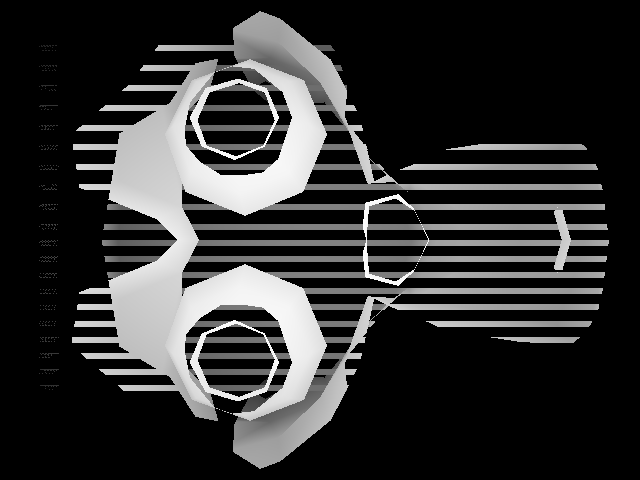
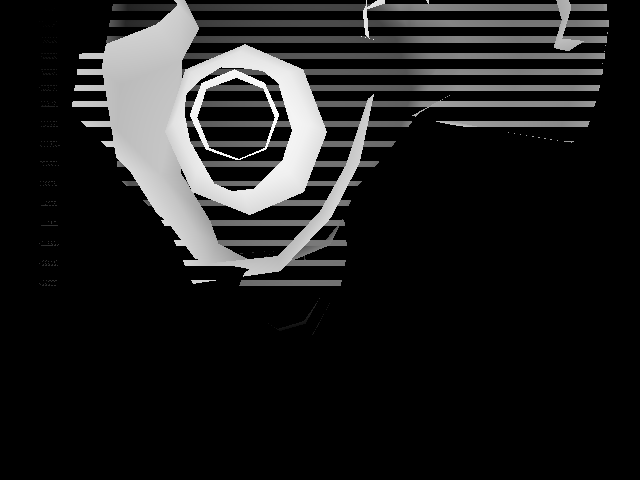
Vectorize peeling

diff --git a/deepdrr/pyrender/renderer.py b/deepdrr/pyrender/renderer.py
@@ -19,6 +19,18 @@ from .utils import format_color_vector
 from OpenGL.GL import *
 
 
+GL_COLOR_ATTACHMENT_LIST = [
+    GL_COLOR_ATTACHMENT0,
+    GL_COLOR_ATTACHMENT1,
+    GL_COLOR_ATTACHMENT2,
+    GL_COLOR_ATTACHMENT3,
+    GL_COLOR_ATTACHMENT4,
+    GL_COLOR_ATTACHMENT5,
+    GL_COLOR_ATTACHMENT6,
+    GL_COLOR_ATTACHMENT7,
+]
+
+
 class Renderer(object):
     """Class for handling all rendering operations on a scene.
 
@@ -37,7 +49,7 @@ class Renderer(object):
         Size of points in pixels. Defaults to 1.0.
     """
 
-    def __init__(self, viewport_width, viewport_height, point_size=1.0):
+    def __init__(self, viewport_width, viewport_height, point_size=1.0, max_dual_peel_layers=8):
         self.dpscale = 1
         # Scaling needed on retina displays
         if sys.platform == 'darwin':
@@ -46,6 +58,7 @@ class Renderer(object):
         self.viewport_width = viewport_width
         self.viewport_height = viewport_height
         self.point_size = point_size
+        self.max_dual_peel_layers = max_dual_peel_layers
 
         # Optional framebuffer for offscreen renders
         self._main_fb = None
@@ -146,9 +159,11 @@ class Renderer(object):
         # print(f"{int(GL_MAX_COLOR_ATTACHMENTS)=}")
 
         # Make forward pass
-        retval = self._forward_pass(scene, flags, seg_node_map=seg_node_map, drr_mode=drr_mode, zfar=zfar, peelnum=0)
-        retval = self._forward_pass(scene, flags, seg_node_map=seg_node_map, drr_mode=drr_mode, zfar=zfar, peelnum=1)
-        retval = self._forward_pass(scene, flags, seg_node_map=seg_node_map, drr_mode=drr_mode, zfar=zfar, peelnum=2)
+        # retval = self._forward_pass(scene, flags, seg_node_map=seg_node_map, drr_mode=drr_mode, zfar=zfar, peelnum=0)
+        # retval = self._forward_pass(scene, flags, seg_node_map=seg_node_map, drr_mode=drr_mode, zfar=zfar, peelnum=1)
+        # retval = self._forward_pass(scene, flags, seg_node_map=seg_node_map, drr_mode=drr_mode, zfar=zfar, peelnum=2)
+        for i in range(self.max_dual_peel_layers):
+            retval = self._forward_pass(scene, flags, seg_node_map=seg_node_map, drr_mode=drr_mode, zfar=zfar, peelnum=i)
 
         # # If necessary, make normals pass
         # if flags & (RenderFlags.VERTEX_NORMALS | RenderFlags.FACE_NORMALS):
@@ -414,14 +429,18 @@ class Renderer(object):
         # Unbind the shader and flush the output
         if program is not None:
             program._unbind()
-        glFlush()
+        # glFlush() # TODO: I don't think this is needed for offscreen
 
-        # If doing offscreen render, copy result from framebuffer and return
-        if flags & RenderFlags.OFFSCREEN:
+        if peelnum == self.max_dual_peel_layers-1:
             return self._read_main_framebuffer(scene, flags)
-        else:
-            raise ValueError('TODO')
-            return
+
+        # # If doing offscreen render, copy result from framebuffer and return
+        # if flags & RenderFlags.OFFSCREEN:
+        #     return self._read_main_framebuffer(scene, flags)
+        # else:
+        #     raise ValueError('TODO')
+        #     glFlush() # Maybe?
+        #     return
 
     # def _shadow_mapping_pass(self, scene, light_node, flags):
     #     light = light_node.light
@@ -1099,18 +1118,7 @@ class Renderer(object):
         #     glBindFramebuffer(GL_DRAW_FRAMEBUFFER, 0)
         glBindFramebuffer(GL_FRAMEBUFFER, self.g_dualPeelingSingleFboId)
 
-        attach_array = [
-            GL_COLOR_ATTACHMENT0,
-            GL_COLOR_ATTACHMENT1,
-            GL_COLOR_ATTACHMENT2,
-            GL_COLOR_ATTACHMENT3,
-            GL_COLOR_ATTACHMENT4,
-            GL_COLOR_ATTACHMENT5,
-            GL_COLOR_ATTACHMENT6,
-            GL_COLOR_ATTACHMENT7,
-        ]
-
-        glDrawBuffer(attach_array[peelnum])
+        glDrawBuffer(GL_COLOR_ATTACHMENT_LIST[peelnum])
 
         glViewport(0, 0, self.viewport_width, self.viewport_height)
         # glEnable(GL_DEPTH_TEST)
@@ -1168,10 +1176,10 @@ class Renderer(object):
 
         # If framebuffer doesn't exist, create it
         if self._main_fb is None:
-            self.g_dualDepthTexId = glGenTextures(4)
+            self.g_dualDepthTexId = glGenTextures(self.max_dual_peel_layers)
             self.g_dualPeelingSingleFboId = glGenFramebuffers(1)
 
-            for i in range(4):
+            for i in range(self.max_dual_peel_layers):
                 glBindTexture(GL_TEXTURE_RECTANGLE, self.g_dualDepthTexId[i])
                 glTexParameteri(GL_TEXTURE_RECTANGLE, GL_TEXTURE_WRAP_S, GL_CLAMP_TO_EDGE)
                 glTexParameteri(GL_TEXTURE_RECTANGLE, GL_TEXTURE_WRAP_T, GL_CLAMP_TO_EDGE)
@@ -1181,13 +1189,8 @@ class Renderer(object):
 
 
             glBindFramebuffer(GL_FRAMEBUFFER, self.g_dualPeelingSingleFboId)
-            # glFramebufferTexture2D(GL_FRAMEBUFFER, GL_COLOR_ATTACHMENT0, GL_TEXTURE_RECTANGLE, self.g_dualDepthTexId[0], 0)
-            # glFramebufferTexture2D(GL_FRAMEBUFFER, GL_COLOR_ATTACHMENT1, GL_TEXTURE_RECTANGLE, self.g_dualDepthTexId[1], 0)
-            glFramebufferTexture2D(GL_FRAMEBUFFER, GL_COLOR_ATTACHMENT0, GL_TEXTURE_RECTANGLE, self.g_dualDepthTexId[0], 0)
-            glFramebufferTexture2D(GL_FRAMEBUFFER, GL_COLOR_ATTACHMENT1, GL_TEXTURE_RECTANGLE, self.g_dualDepthTexId[1], 0)
-            glFramebufferTexture2D(GL_FRAMEBUFFER, GL_COLOR_ATTACHMENT2, GL_TEXTURE_RECTANGLE, self.g_dualDepthTexId[2], 0)
-            glFramebufferTexture2D(GL_FRAMEBUFFER, GL_COLOR_ATTACHMENT3, GL_TEXTURE_RECTANGLE, self.g_dualDepthTexId[3], 0)
-
+            for i in range(self.max_dual_peel_layers):
+                glFramebufferTexture2D(GL_FRAMEBUFFER, GL_COLOR_ATTACHMENT_LIST[i], GL_TEXTURE_RECTANGLE, self.g_dualDepthTexId[i], 0)
 
             # Generate standard buffer
             self._main_cb, self._main_db = glGenRenderbuffers(2)
@@ -1326,32 +1329,21 @@ class Renderer(object):
         # if sys.platform == 'darwin':
         #     color_im = self._resize_image(color_im, True)
 
-        glReadBuffer(GL_COLOR_ATTACHMENT0)
+        ims = []
 
-        color_buf = glReadPixels(
-            0, 0, width, height, GL_RGB, GL_FLOAT
-        )
-        color_im = np.frombuffer(color_buf, dtype=np.float32)
-        color_im = color_im.reshape((height, width, 3))
+        for i in range(self.max_dual_peel_layers):
 
-        glReadBuffer(GL_COLOR_ATTACHMENT1)
+            glReadBuffer(GL_COLOR_ATTACHMENT_LIST[i])
 
-        color_buf = glReadPixels(
-            0, 0, width, height, GL_RGB, GL_FLOAT
-        )
-        color_im2 = np.frombuffer(color_buf, dtype=np.float32)
-        color_im2 = color_im2.reshape((height, width, 3))
+            color_buf = glReadPixels(
+                0, 0, width, height, GL_RGB, GL_FLOAT
+            )
+            color_im = np.frombuffer(color_buf, dtype=np.float32)
+            color_im = color_im.reshape((height, width, 3))
+            color_im = np.flip(color_im, axis=0)
+            ims.append(color_im)
 
-        glReadBuffer(GL_COLOR_ATTACHMENT2)
-
-        color_buf = glReadPixels(
-            0, 0, width, height, GL_RGB, GL_FLOAT
-        )
-        color_im3 = np.frombuffer(color_buf, dtype=np.float32)
-        color_im3 = color_im3.reshape((height, width, 3))
-
-        return color_im, color_im2, color_im3
-        # return color_im, depth_im
+        return ims
 
     def _resize_image(self, value, antialias=False):
         """If needed, rescale the render for MacOS."""

diff --git a/examples/duck.py b/examples/duck.py
@@ -57,7 +57,7 @@ randval = random.uniform(-1, 1)
 
 cam_pose = np.array([
     [1.0, 0.0, 0.0, 0.0],
-    [0.0, 1.0, 0.0, 0.0],
+    [0.0, 1.0, 0.0, randval],
     [0.0, 0.0, -1.0, -2.0],
     [0.0, 0.0, 0.0, 1.0]
 ])
@@ -66,7 +66,8 @@ scene.add(cam, pose=cam_pose)
 
 r = pyrender.OffscreenRenderer(viewport_width=640,
                                 viewport_height=480,
-                                point_size=1.0)
+                                point_size=1.0,
+                                max_dual_peel_layers=8)
 zfar = 10
 def render():
     # color, depth = r.render(scene, drr_mode=DRRMode.ERROR)
@@ -79,15 +80,15 @@ def render():
     
     # color[error_mask] = 0
 
-    color, depth, dfsa = r.render(scene, drr_mode=DRRMode.BACKDIST, flags=RenderFlags.RGBA, zfar=zfar)
+    ims = r.render(scene, drr_mode=DRRMode.BACKDIST, flags=RenderFlags.RGBA, zfar=zfar)
     # color, depth = r.render(scene, drr_mode=DRRMode.FRONTDIST)
 
 
 
-    return color, depth, dfsa
+    return ims
 
 
-color, depth, dfsa = render()
+ims = render()
 
 
 # N=1000
@@ -140,7 +141,8 @@ import cv2
 
 # print("done")
 
-ims = [color[:,:,0], color[:,:,1], depth[:,:,0], depth[:,:,1], dfsa[:,:,0], dfsa[:,:,1]]
+# ims = [color[:,:,0], color[:,:,1], depth[:,:,0], depth[:,:,1], dfsa[:,:,0], dfsa[:,:,1]]
+ims = [x for im in ims for x in [im[:,:,0], im[:,:,1]] ]
 for i, im in enumerate(ims):
     print(f"")
     print(f"{i=}")
@@ -148,5 +150,8 @@ for i, im in enumerate(ims):
     print(f"{np.amin(im)=} {np.amax(im)=}")
     print(f"{np.unique(im, return_counts=True)=}")
 
-    remapped = np.interp(im, (np.amin(im[im>-zfar+.001]), np.amax(im)), (0, 255)).astype(np.uint8)
+    above_zfar = im[im>-zfar+.001]
+    if len(above_zfar) == 0:
+        above_zfar = im
+    remapped = np.interp(im, (np.amin(above_zfar), np.amax(im)), (0, 255)).astype(np.uint8)
     cv2.imwrite(f'asdfsa{i}.png', remapped)

diff --git a/deepdrr/pyrender/offscreen.py b/deepdrr/pyrender/offscreen.py
@@ -21,10 +21,11 @@ class OffscreenRenderer(object):
         The size of screen-space points in pixels.
     """
 
-    def __init__(self, viewport_width, viewport_height, point_size=1.0):
+    def __init__(self, viewport_width, viewport_height, point_size=1.0, max_dual_peel_layers=8):
         self.viewport_width = viewport_width
         self.viewport_height = viewport_height
         self.point_size = point_size
+        self.max_dual_peel_layers = max_dual_peel_layers
 
         self._platform = None
         self._renderer = None
@@ -149,7 +150,7 @@ class OffscreenRenderer(object):
             ))
         self._platform.init_context()
         self._platform.make_current()
-        self._renderer = Renderer(self.viewport_width, self.viewport_height)
+        self._renderer = Renderer(self.viewport_width, self.viewport_height, max_dual_peel_layers=self.max_dual_peel_layers)
 
     def __del__(self):
         try:
